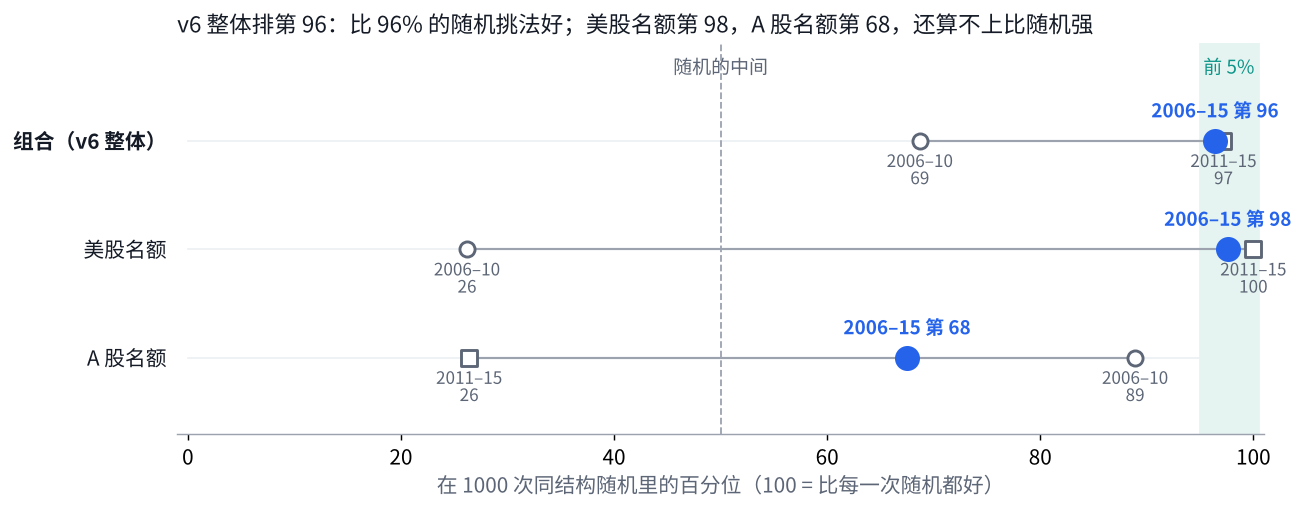
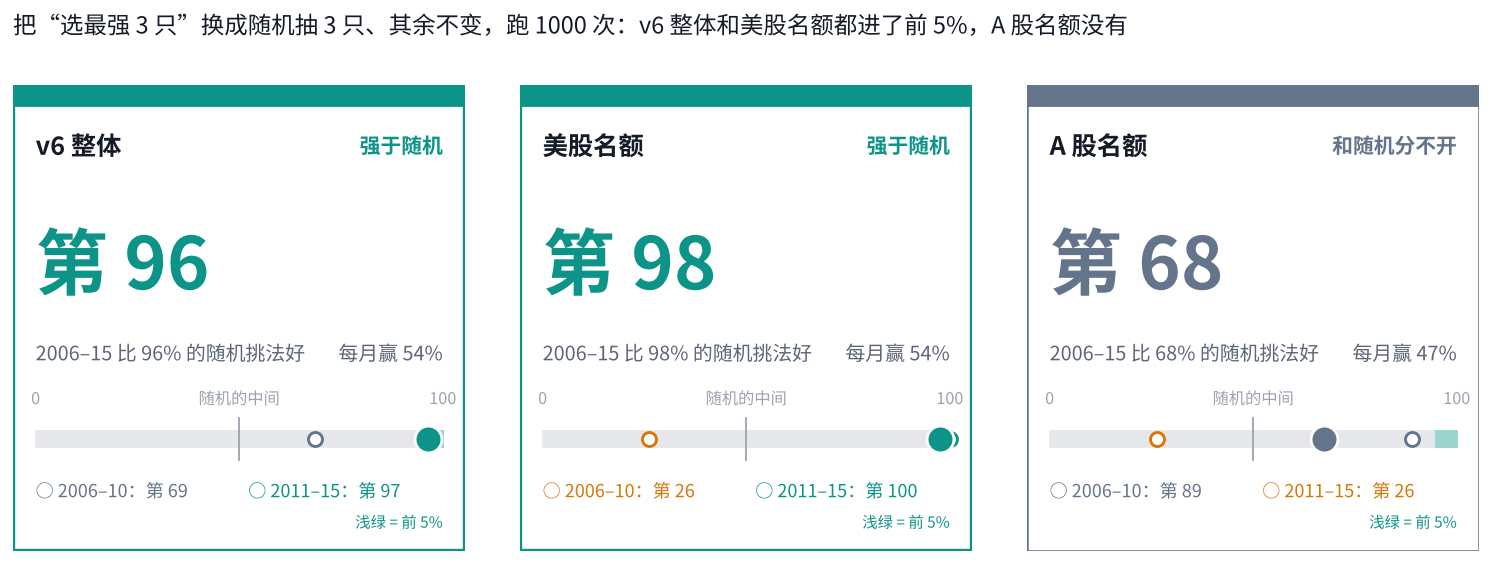
体检 7.1 随机对照图改为三张记分卡：大号百分位、按强弱着色、两段并列（Owner 页面评论）
Claude-Session: https://claude.ai/code/session_01D95uZGmhdA65bQR8bYU8L8

diff --git a/scripts/v6_report/charts_health.py b/scripts/v6_report/charts_health.py
@@ -12,6 +12,7 @@ h2：和别人比——八条线 2006–15 的年化 × 最大回撤（左上更
 """
 import sys, json, csv, pathlib
 import matplotlib; matplotlib.use('Agg'); import matplotlib.pyplot as plt, matplotlib.ticker
+from matplotlib.patches import FancyBboxPatch, Rectangle
 
 ROOT = pathlib.Path(__file__).resolve().parents[2]
 OUT = pathlib.Path(sys.argv[1]); OUT.mkdir(parents=True, exist_ok=True)
@@ -208,25 +209,30 @@ if EX.exists():
 # ---------- h7 跑赢随机吗：同结构随机 1000 次里的百分位（冻结稿 §5.2；Dev #377 @ 9935a314，Reviewer #375 对账在容差内） ----------
 RS = json.load(open(SRC / 'health-random-summary.json', encoding='utf-8'))['segments']
 P = {(r['book'], r['segment']): r for r in RS}
-books = [('组合', '组合（v6 整体）'), ('美股', '美股名额'), ('A股', 'A 股名额')]
-segs = [('2006-2010', '2006–10', 'o', 'none'), ('2011-2015', '2011–15', 's', 'none'), ('2006-2015', '2006–15', 'o', 'full')]
-fig, ax = plt.subplots(figsize=(11, 3.9))
-ax.axvspan(95, 100.5, color='#e6f4f1'); ax.axvline(50, color=GREY, ls='--', lw=1)
-ax.text(50, .62, '随机的中间', ha='center', color=MUTED, fontsize=10.5); ax.text(97.7, .62, '前 5%', ha='center', color=TEAL, fontsize=10.5)
+books = [('组合', 'v6 整体'), ('美股', '美股名额'), ('A股', 'A 股名额')]
+segs = [('2006-2010', '2006–10'), ('2011-2015', '2011–15')]
+tone = lambda x: (TEAL, '强于随机') if x >= 95 else ((AMBER, '不如随机的中间') if x < 50 else ('#64748b', '和随机分不开'))
+fig = plt.figure(figsize=(12, 4.6))
 for i, (b, lab) in enumerate(books):
-    y = -i
-    ax.plot([0, 100], [y, y], color='#eef1f5', lw=1, zorder=0)
-    xs = [P[(b, s)]['percentile'] for s, *_ in segs]
-    ax.plot([min(xs), max(xs)], [y, y], color=GREY, lw=1.2, zorder=1)
-    for (s, sl, m, fill), x in zip(segs, xs):
-        full = fill == 'full'
-        c = BLUE if full else MUTED
-        ax.scatter(x, y, s=150 if full else 70, marker=m, facecolors=c if full else 'white', edgecolors=c, lw=1.6, zorder=3)
-        ax.annotate(f'{sl} 第 {x:.0f}' if full else f'{sl}\n{x:.0f}', (x, y), xytext=(0, 13 if full else -24), textcoords='offset points',
-                    ha='center', fontsize=10.5 if full else 9.5, color=c, weight='bold' if full else 'normal')
-    ax.text(-2, y, lab, ha='right', va='center', fontsize=11.5, color=INK, weight='bold' if b == '组合' else 'normal')
-ax.set_xlim(-1, 101); ax.set_ylim(-2.7, .9); ax.set_yticks([]); ax.spines['left'].set_visible(False)
-ax.set_xlabel('在 1000 次同结构随机里的百分位（100 = 比每一次随机都好）', color=MUTED)
-ax.set_title('v6 整体排第 96：比 96% 的随机挑法好；美股名额第 98，A 股名额第 68，还算不上比随机强', fontsize=12.5, loc='left', color=INK)
-fig.subplots_adjust(left=.14)
+    full = P[(b, '2006-2015')]; x = full['percentile']; c, verdict = tone(x)
+    ax = fig.add_axes([0.035 + i * 0.325, 0.08, 0.29, 0.78]); ax.axis('off'); ax.set_xlim(0, 100); ax.set_ylim(0, 10)
+    ax.add_patch(Rectangle((0, 0), 100, 10, fc='white', ec=c, lw=2.4 if b != 'A股' else 1.4)); ax.add_patch(Rectangle((0, 9.55), 100, .45, fc=c, ec=c))
+    ax.text(5, 8.7, lab, fontsize=14, weight='bold', color=INK, va='center')
+    ax.text(95, 8.7, verdict, fontsize=11.5, weight='bold', color=c, va='center', ha='right')
+    ax.text(5, 6.2, f'第 {x:.0f}', fontsize=40, weight='bold', color=c, va='center')
+    ax.text(5, 4.25, f'2006–15 比 {x:.0f}% 的随机挑法好', fontsize=11, color=MUTED, va='center')
+    # 刻度条 0–100：前 5% 着色，三个点
+    y0 = 2.4
+    ax.add_patch(Rectangle((5, y0 - .18), 90, .36, color='#e5e7eb'))
+    ax.add_patch(Rectangle((5 + .95 * 90, y0 - .18), .05 * 90, .36, color='#99d5cb'))
+    ax.plot([5 + .5 * 90] * 2, [y0 - .45, y0 + .45], color=GREY, lw=1)
+    ax.scatter(5 + .9 * x, y0, s=220, color=c, zorder=4, edgecolors='white', lw=1.5)
+    for k, (sg, sl) in enumerate(segs):
+        v = P[(b, sg)]['percentile']; xx = 5 + .9 * v
+        ax.scatter(xx, y0, s=60, facecolors='white', edgecolors=tone(v)[0], lw=1.6, zorder=3)
+        ax.text(5 + 47 * k, y0 - 1.1, f'○ {sl}：第 {v:.0f}', ha='left', va='center', fontsize=10, color=tone(v)[0])
+    ax.text(5, y0 + .75, '0', fontsize=9, color=GREY, ha='center'); ax.text(95, y0 + .75, '100', fontsize=9, color=GREY, ha='center'); ax.text(95, y0 - 1.9, '浅绿 = 前 5%', fontsize=8.5, color=TEAL, ha='right')
+    ax.text(50, y0 + .75, '随机的中间', fontsize=9, color=GREY, ha='center')
+    ax.text(95, 4.25, f'每月赢 {100 * full["beat_random_median_share"]:.0f}%', fontsize=11, color=MUTED, va='center', ha='right')
+fig.suptitle('把“选最强 3 只”换成随机抽 3 只、其余不变，跑 1000 次：v6 整体和美股名额都进了前 5%，A 股名额没有', x=.035, ha='left', fontsize=13, color=INK, y=.98)
 fig.savefig(OUT / 'h7-random.png', dpi=130, bbox_inches='tight'); plt.close(fig)
